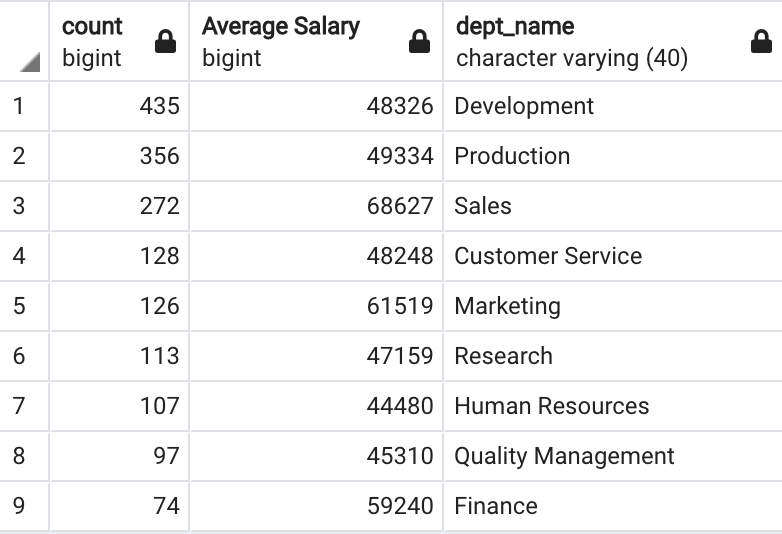
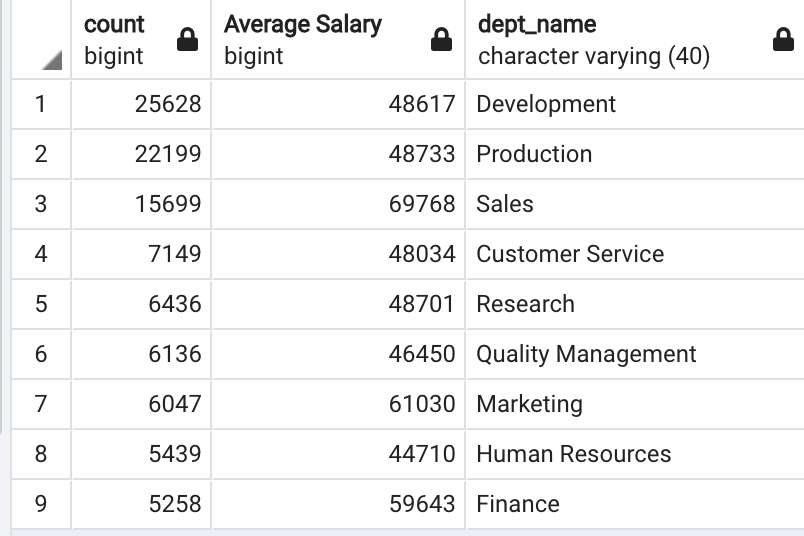
Readme completed

Changed region(s): [[0.0, 0.0, 1.0, 0.9888]]

diff --git a/README.md b/README.md
@@ -18,8 +18,9 @@ We the help of SQL in pgAdmin4, querries are written and the results are as list
 
 ### Step 1: Database Schema & importation
 
-Figure 1: PostgreSQL schema
-<img src="https://github.com/poboisvert/Pewlett-Hackard-Analysis/blob/main/EmployeeDB.png?raw=true" width="750" />
+#### Figure 1: PostgreSQL schema
+
+<img src="https://github.com/poboisvert/Pewlett-Hackard-Analysis/blob/main/Data/img/EmployeeDB.png?raw=true" width="750" />
 
 ### Step 2: additional tables
 
@@ -31,44 +32,63 @@ Following tables are created in order to have additional insights.
 
 ## Summary
 
+### Eligible for retirement
+
+The list to generate the employees that may retire soon must be respect these two criterias: (1) WHERE (birth_date BETWEEN '1952-01-01' AND '1955-12-31') and
+AND (hire_date BETWEEN '1985-01-01' AND '1988-12-31').
+
+The summary is 90,398 employees will be soon retired from the company if we consider the data from the table "unique_title" and we currently have 240,124 total employees that are still active in the database.
+
+### Employees Eligible for the Mentorship Program
+
 In this project to acheive the goal, we needed to create some other beneficial tables as well, which could be usefull anytime for the manager requests and help them current system analysis and decision making.
 
 ### Table 1: mentorship_eligibilty
 
-This table give a list of 1,550 employees that fit into the "silver tsunami" and will reach soon the retirement age.
+This table give a list of 1,549 employees that fit into the mentorship eligibility and will reach soon the retirement age. By category, we have 78 are Assistant Manager, 155 Staff, 569 are Senior Staff, 501 Engineer and 169 Senior Engineer.
 
-## Two additional querries
+### Two additional querries
 
 To complete and help to identify current employees, and gives informations about retirement based on current employees.
 
-```
-SELECT
-	COUNT(me.emp_no),
-	SUM(sa.salary)/COUNT(me.emp_no) AS "Average Salary",
-	d.dept_name
-FROM mentorship_eligibilty as me
-INNER JOIN salaries AS sa
-ON (me.emp_no = sa.emp_no)
-INNER JOIN dept_emp AS de
-ON (me.emp_no = de.emp_no)
-INNER JOIN departments AS d
-ON (de.dep_no = d.dept_no)
-GROUP BY d.dept_no
-ORDER BY COUNT(me.emp_no) DESC
-```
+#### Figure 2: Ready to retire by job title
+
+<img src="https://github.com/poboisvert/Pewlett-Hackard-Analysis/blob/main/Data/img/Recent_employees.png" width="750" />
+
+This figure illustrate the weight of each department in order to help us see which departement are intense in labor. Development, production and sales are the most intensive and Finance is the least. Below is the snippet for the additional query.
 
 ```
 SELECT
-    me.emp_no,
-    me.first_name,
-    me.last_name,
-    me.birth_date,
-	me.from_date,
-	me.title,
-	sa.salary
-FROM mentorship_eligibilty as me
+    COUNT(e.emp_no),
+    d.dept_name
+FROM employees AS e
+INNER JOIN dept_emp AS de
+ON (e.emp_no = de.emp_no)
+INNER JOIN departments AS d
+ON (de.dep_no = d.dept_no)
+WHERE (de.to_date = '9999-01-01')
+GROUP BY d.dept_no
+ORDER BY COUNT(e.emp_no) DESC
+```
+
+#### Figure 3: Ready to retire by job title
+
+<img src="https://github.com/poboisvert/Pewlett-Hackard-Analysis/blob/main/Data/img/Group_department.png" width="750" />
+
+The figure three illustrate the most impacted departement by the retirement and must consider the long term company strategy. The average salary is higher for the Finance and Marketing department and the company must address if the replacement cost will be lower. Since finance is the smallest department and where the average salary is higher, it will be important to hire highly qualified employee. Below is the snippet for the additional query.
+
+```
+SELECT
+	COUNT(ut.emp_no),
+	SUM(sa.salary)/COUNT(ut.emp_no) AS "Average Salary",
+	d.dept_name
+FROM unique_titles as ut
 INNER JOIN salaries AS sa
-ON (me.emp_no = sa.emp_no)
-WHERE me.from_date >= '19991231'
-ORDER BY me.from_date DESC
+ON (ut.emp_no = sa.emp_no)
+INNER JOIN dept_emp AS de
+ON (ut.emp_no = de.emp_no)
+INNER JOIN departments AS d
+ON (de.dep_no = d.dept_no)
+GROUP BY d.dept_no
+ORDER BY COUNT(ut.emp_no) DESC
 ```
